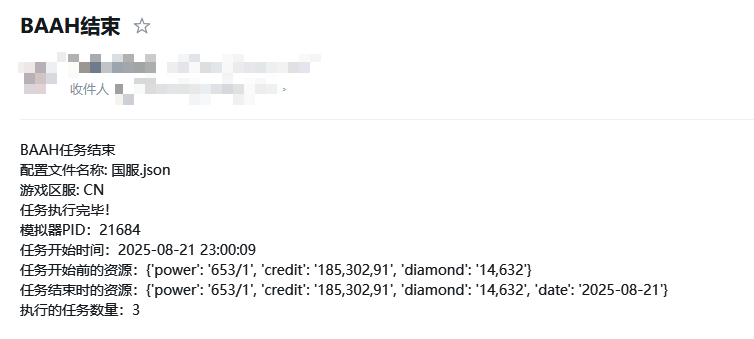
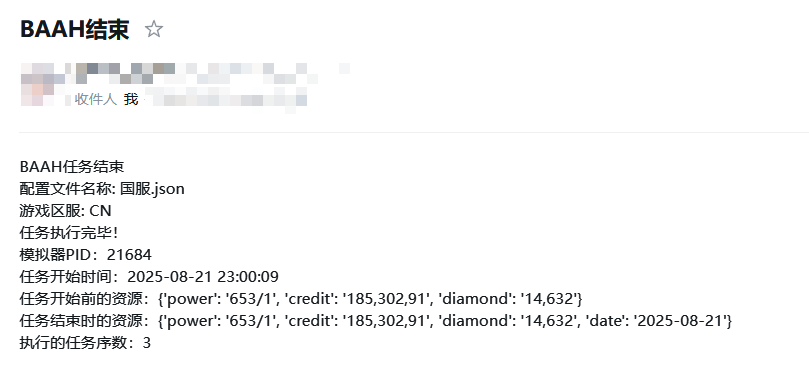
Docs: correct notification example and expand QA

diff --git a/src/docs/notification.md b/src/docs/notification.md
@@ -111,7 +111,7 @@ https://sctapi.ftqq.com/[token].send?title=[title]&desp=[content]
 | 13    | %SCREENSHOT\_READ\_FAIL\_TIMES% | 截图读取失败次数     | 数字                        |
 | 14    | %RESTART\_EMULATOR\_TIMES%      | 模拟器重启次数      | 数字                        |
 | 15    | %SCREENSHOT\_DATA%              | 截图数据         | 当截图模式为pipe时使用，RGB 值或 None |
-| 16    | %CURRENT\_PERIOD\_TASK\_INDEX%  | 执行的任务数   | 数字，\-1 表示未执行任何任务          |
+| 16    | %CURRENT\_PERIOD\_TASK\_INDEX%  | 执行的任务序数   | 数字，\-1 表示未执行任何任务          |
 
 <details>
 <summary>例子</summary>
@@ -124,7 +124,7 @@ https://sctapi.ftqq.com/[token].send?title=[title]&desp=[content]
 任务开始时间：%BAAH_START_TIME%
 任务开始前的资源：%BEFORE_BAAH_SOURCES%
 任务结束时的资源：%AFTER_BAAH_SOURCES%
-执行的任务数量：%CURRENT_PERIOD_TASK_INDEX%
+执行的任务序数：%CURRENT_PERIOD_TASK_INDEX%
 
 ```
 回报内容：
